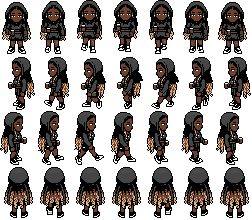
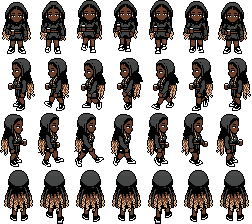
Dieynaba's walk away from the camera steps like an RPG Maker cycle
As one foot steps forward (up the screen), the other reaches back toward the
camera with its sole showing, then they swap.

Claude-Session: https://claude.ai/code/session_01EFHJzWZ6kW16usPj4QuKFn

diff --git a/game/js/isles/isles-data.js b/game/js/isles/isles-data.js
@@ -54,7 +54,7 @@
   });
 
   // <isles-art> Made by tools/isles_art.py: sprite sheet and object sizes in assets/img/isles.
-  I.ART = {"chars": {"arjun": {"w": 32, "h": 80, "n": [4, 0, 0, 0]}, "bloom": {"w": 48, "h": 42, "n": [8, 0, 0, 0]}, "farida": {"w": 34, "h": 84, "n": [4, 0, 0, 0]}, "haeun": {"w": 30, "h": 76, "n": [4, 0, 0, 0]}, "hajin": {"w": 30, "h": 78, "n": [4, 0, 0, 0]}, "kai": {"w": 28, "h": 75, "n": [4, 0, 0, 0]}, "kid1": {"w": 32, "h": 75, "n": [4, 0, 0, 0]}, "kid2": {"w": 36, "h": 72, "n": [4, 0, 0, 0]}, "kid3": {"w": 28, "h": 75, "n": [4, 0, 0, 0]}, "kwame": {"w": 30, "h": 76, "n": [4, 0, 0, 0]}, "leilani": {"w": 38, "h": 78, "n": [4, 0, 0, 0]}, "lucia": {"w": 34, "h": 76, "n": [4, 0, 0, 0]}, "minh": {"w": 40, "h": 75, "n": [4, 0, 0, 0]}, "mutex": {"w": 30, "h": 74, "n": [4, 0, 0, 0]}, "nok": {"w": 30, "h": 78, "n": [4, 0, 0, 0]}, "ploy": {"w": 44, "h": 78, "n": [4, 0, 0, 0]}, "ren": {"w": 20, "h": 53, "n": [4, 0, 0, 0]}, "ruth": {"w": 32, "h": 76, "n": [4, 0, 0, 0]}, "tomas": {"w": 46, "h": 77, "n": [4, 0, 0, 0]}, "valentin": {"w": 36, "h": 55, "n": [6, 6, 6, 6], "walk": 1}, "meron": {"w": 38, "h": 84, "n": [4, 0, 0, 0]}, "saule": {"w": 30, "h": 81, "n": [4, 0, 0, 0]}}, "objects": {"bank": [142, 133], "boat": [19, 28], "bollard": [10, 29], "club": [84, 87], "ferry": [73, 56], "gtable": [47, 44], "hallE": [70, 75], "hallW": [80, 91], "light": [62, 186], "mill": [76, 136], "note": [22, 26], "office": [142, 131], "pilings": [20, 64], "planks": [35, 29], "sails": [108, 109], "school": [138, 156], "shop": [139, 138], "stallB": [52, 56], "stallG": [56, 44], "stallR": [54, 47], "tide": [25, 48], "tower": [78, 204], "umbrella": [38, 46]}};
+  I.ART = {"chars": {"arjun": {"w": 32, "h": 80, "n": [4, 0, 0, 0]}, "bloom": {"w": 48, "h": 42, "n": [8, 0, 0, 0]}, "farida": {"w": 34, "h": 84, "n": [4, 0, 0, 0]}, "haeun": {"w": 30, "h": 76, "n": [4, 0, 0, 0]}, "hajin": {"w": 30, "h": 78, "n": [4, 0, 0, 0]}, "kai": {"w": 28, "h": 75, "n": [4, 0, 0, 0]}, "kid1": {"w": 32, "h": 75, "n": [4, 0, 0, 0]}, "kid2": {"w": 36, "h": 72, "n": [4, 0, 0, 0]}, "kid3": {"w": 28, "h": 75, "n": [4, 0, 0, 0]}, "kwame": {"w": 30, "h": 76, "n": [4, 0, 0, 0]}, "leilani": {"w": 38, "h": 78, "n": [4, 0, 0, 0]}, "lucia": {"w": 34, "h": 76, "n": [4, 0, 0, 0]}, "minh": {"w": 40, "h": 75, "n": [4, 0, 0, 0]}, "mutex": {"w": 30, "h": 74, "n": [4, 0, 0, 0]}, "nok": {"w": 30, "h": 78, "n": [4, 0, 0, 0]}, "ploy": {"w": 44, "h": 78, "n": [4, 0, 0, 0]}, "ren": {"w": 20, "h": 53, "n": [4, 0, 0, 0]}, "ruth": {"w": 32, "h": 76, "n": [4, 0, 0, 0]}, "tomas": {"w": 46, "h": 77, "n": [4, 0, 0, 0]}, "valentin": {"w": 36, "h": 56, "n": [6, 6, 6, 6], "walk": 1}, "meron": {"w": 38, "h": 84, "n": [4, 0, 0, 0]}, "saule": {"w": 30, "h": 81, "n": [4, 0, 0, 0]}}, "objects": {"bank": [142, 133], "boat": [19, 28], "bollard": [10, 29], "club": [84, 87], "ferry": [73, 56], "gtable": [47, 44], "hallE": [70, 75], "hallW": [80, 91], "light": [62, 186], "mill": [76, 136], "note": [22, 26], "office": [142, 131], "pilings": [20, 64], "planks": [35, 29], "sails": [108, 109], "school": [138, 156], "shop": [139, 138], "stallB": [52, 56], "stallG": [56, 44], "stallR": [54, 47], "tide": [25, 48], "tower": [78, 204], "umbrella": [38, 46]}};
   // </isles-art>
 
   const FACE = 'M37 60 Q37 99 60 104 Q83 99 83 60 Q83 32 60 32 Q37 32 37 60Z';
